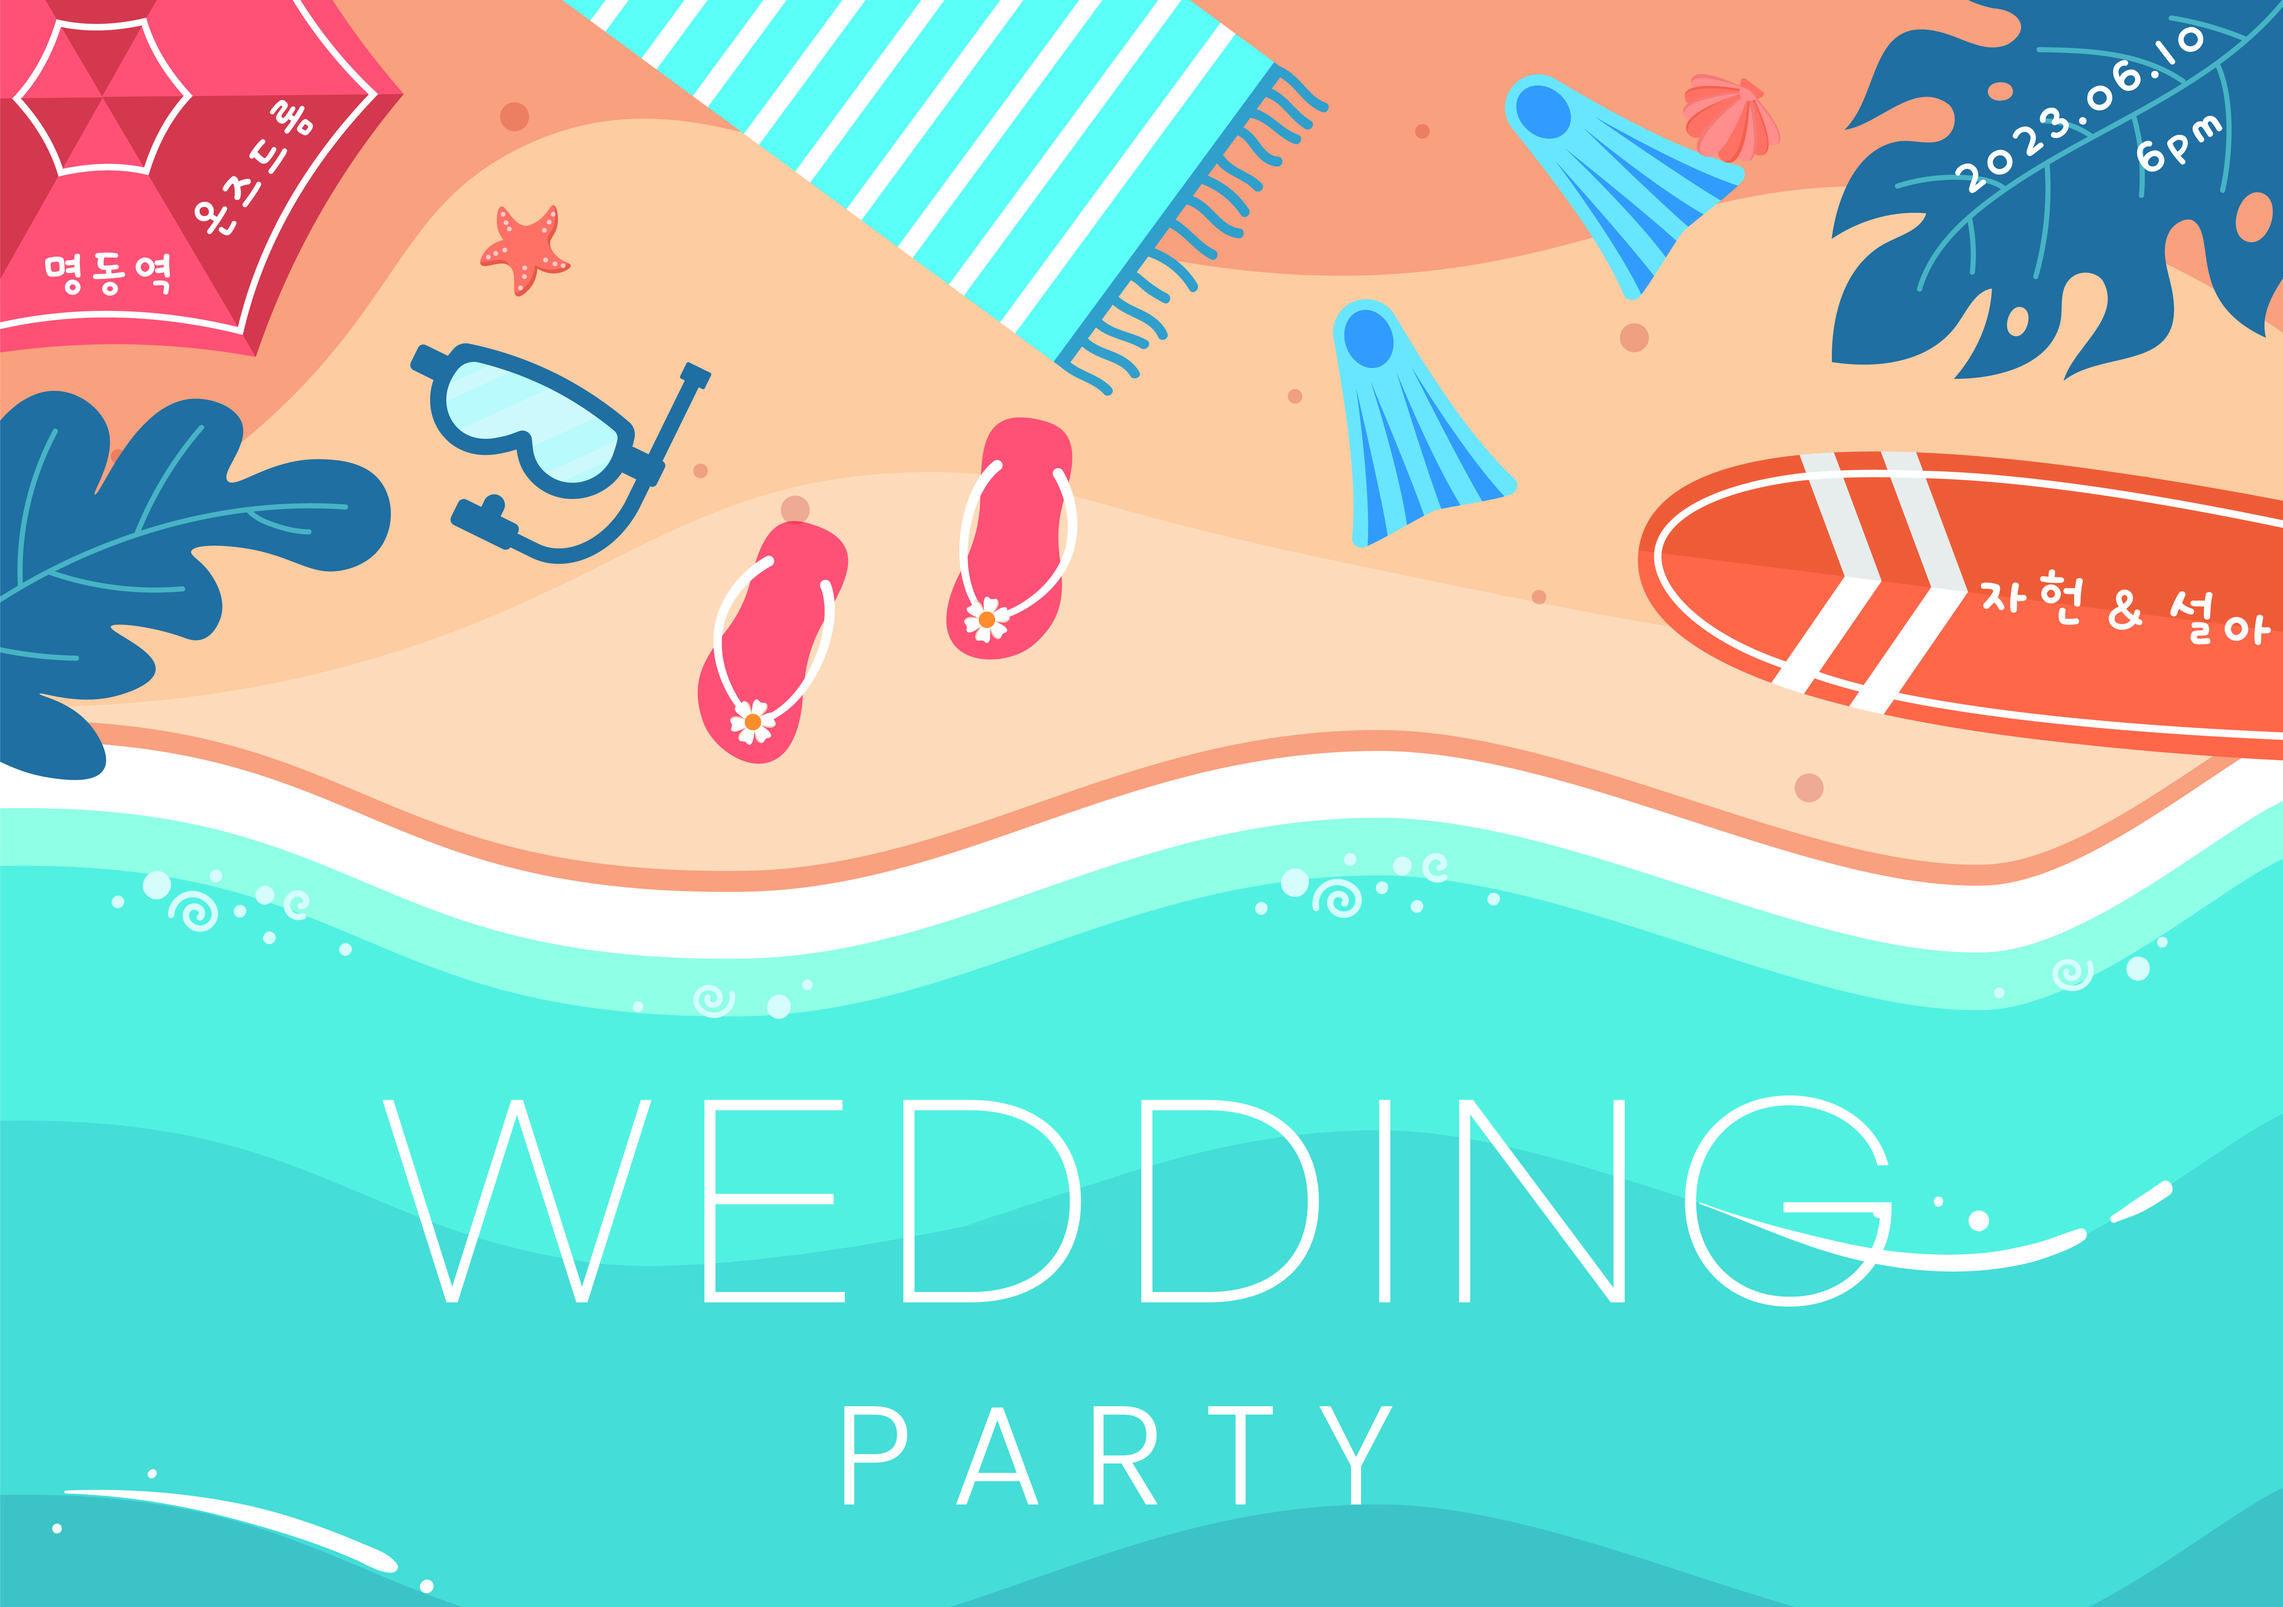
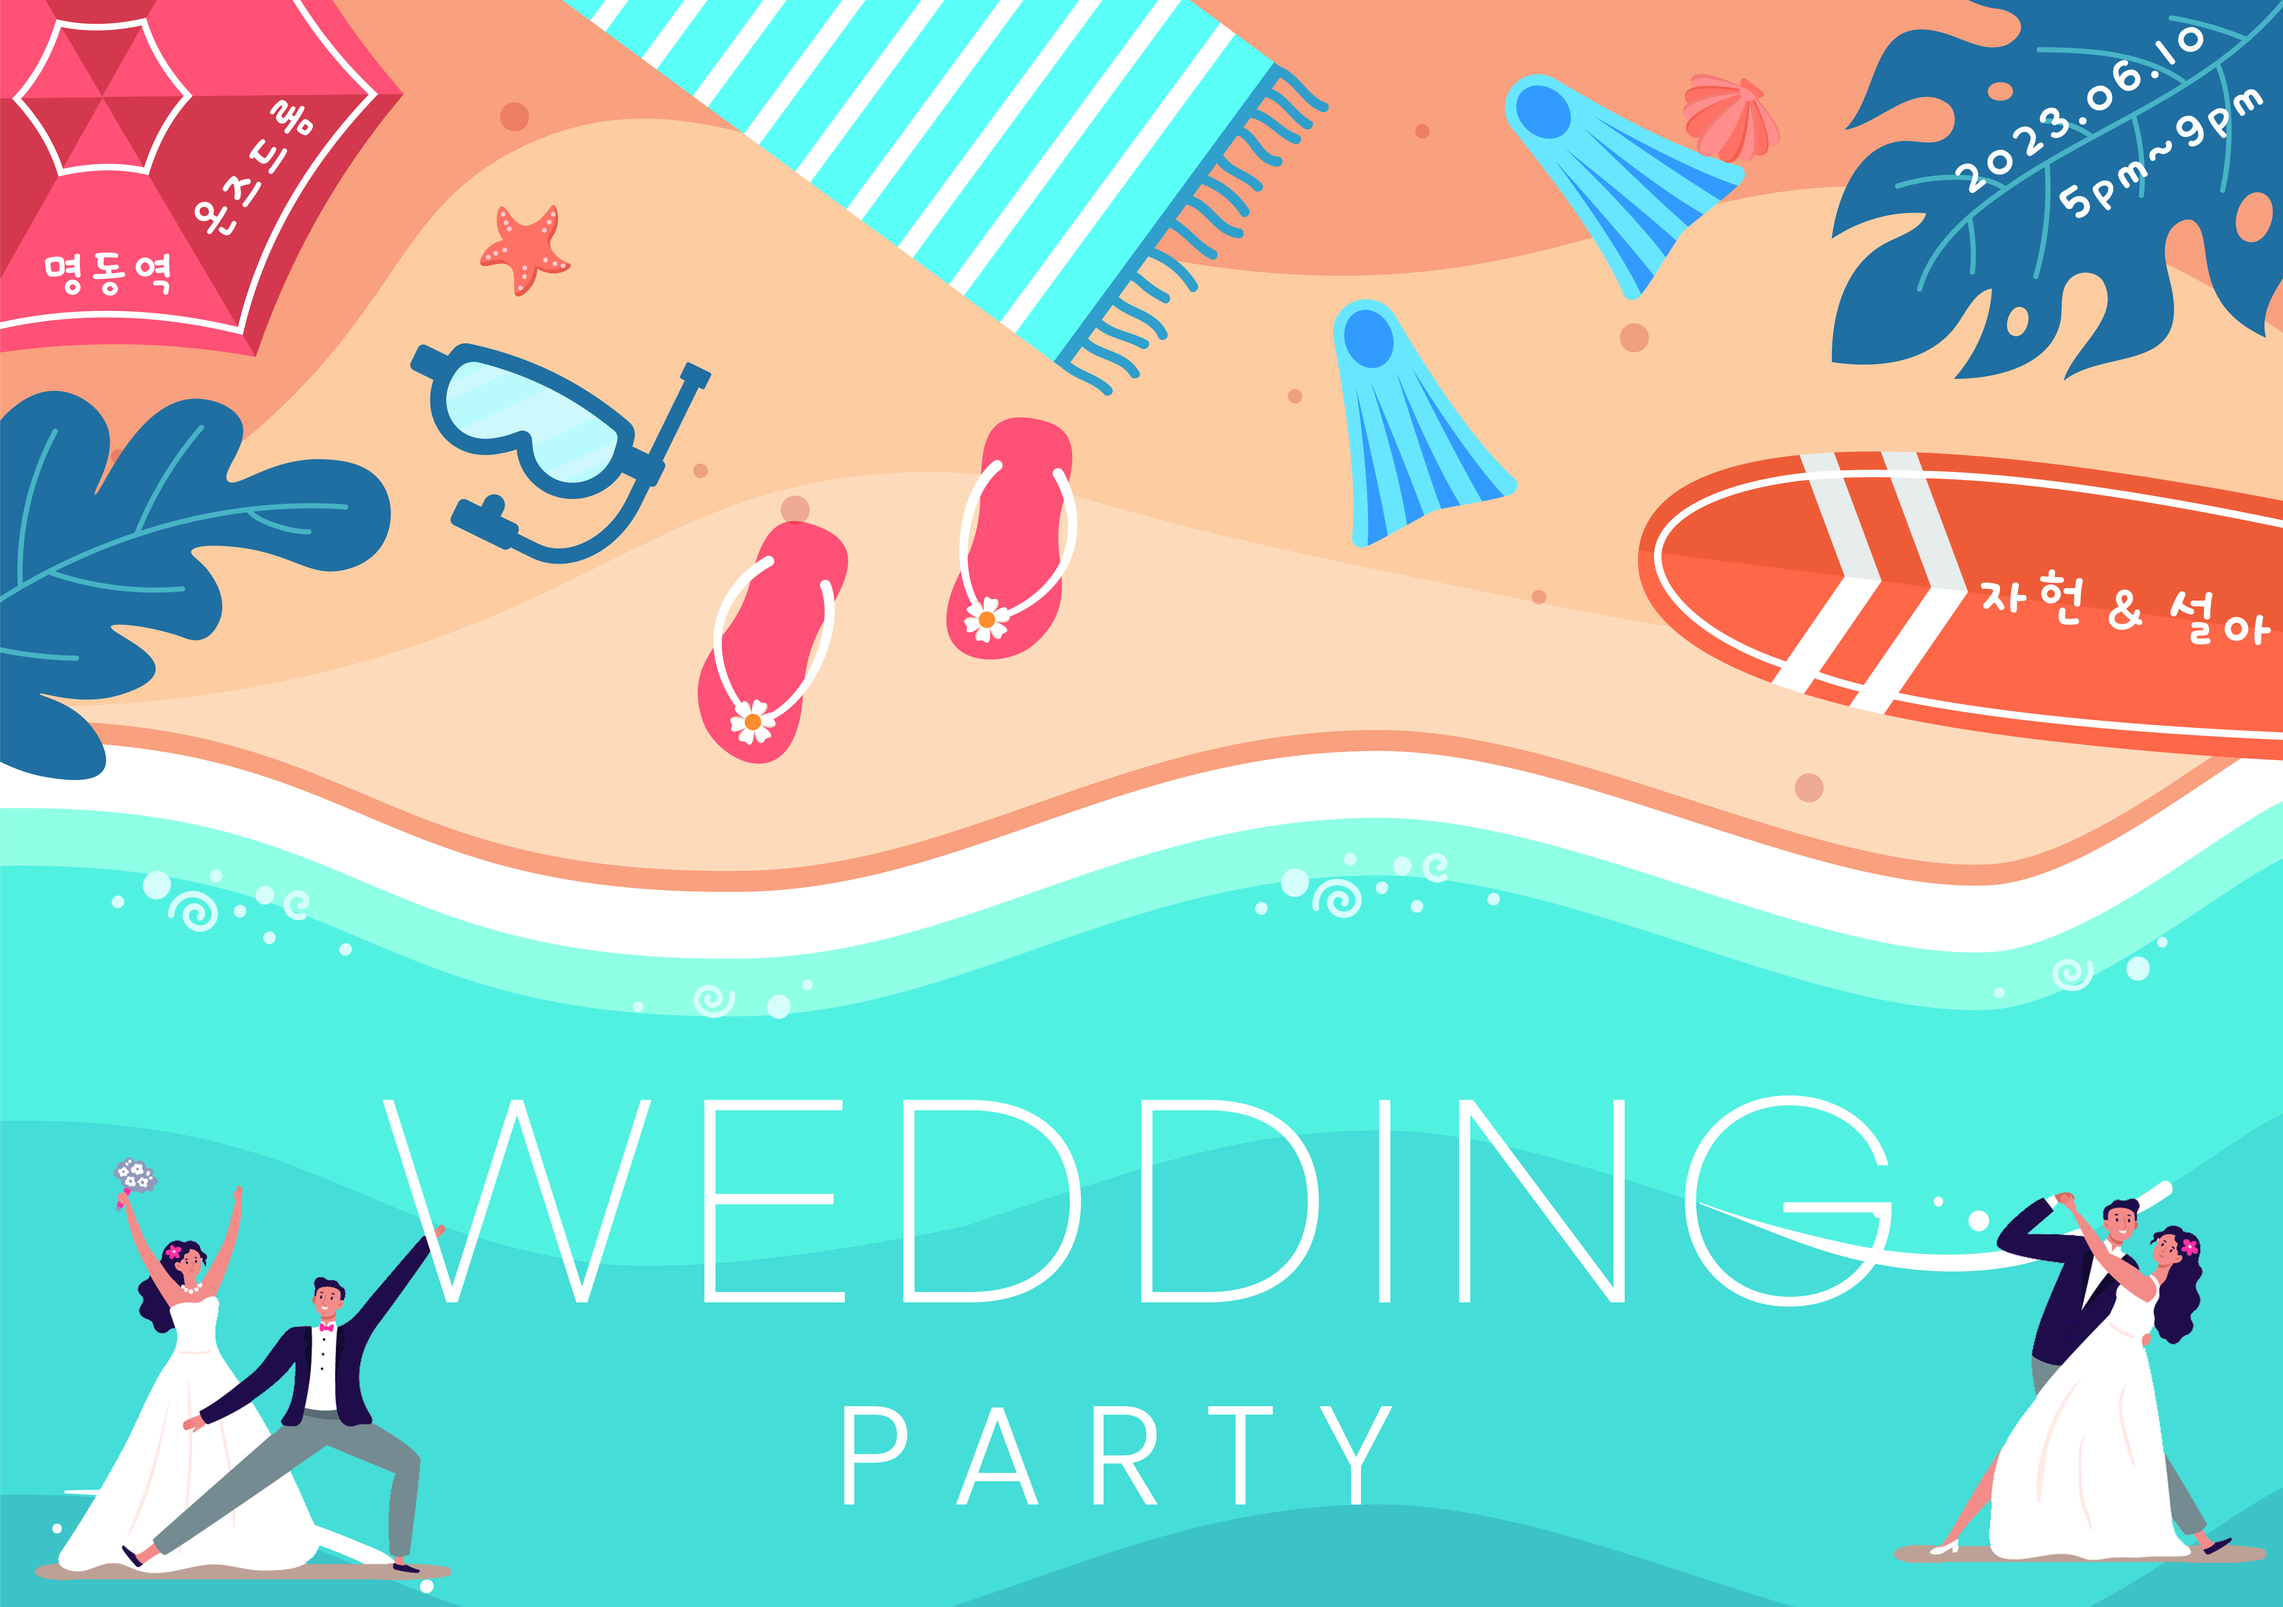
2

Changed region(s): [[0.0, 0.7188, 0.1869, 1.0], [0.8409, 0.75, 0.9967, 1.0], [0.9032, 0.0625, 0.9967, 0.125]]

diff --git a/css/header.css b/css/header.css
@@ -106,6 +106,11 @@
     margin-bottom: 10px;
   }
 
+  #maincontent #maincontentinfo span{
+    font-weight: 500;
+    font-size: 1.3rem;
+  }
+
   #dresscode{
     font-weight: 600;
     font-size: 1.3rem;
@@ -253,6 +258,12 @@
   #maincontent #maincontentinfo div{
     margin-bottom: 10px;
   }
+  
+  #maincontent #maincontentinfo span{
+    font-weight: 500;
+    font-size: 1.3rem;
+  }
+
   #maincontent3{
     margin-top: 150px;
   }
@@ -387,6 +398,11 @@
 
   #maincontent #maincontentinfo div{
     margin-bottom: 10px;
+  }
+
+  #maincontent #maincontentinfo span{
+    font-weight: 500;
+    font-size: 1.3rem;
   }
 
   #maincontent2 div{
@@ -525,6 +541,11 @@
 
   #maincontent #maincontentinfo div{
     margin-bottom: 10px;
+  }
+
+  #maincontent #maincontentinfo span{
+    font-weight: 500;
+    font-size: 2rem;
   }
 
   #maincontent2 div{

diff --git a/index.html b/index.html
@@ -31,8 +31,9 @@
             </div>
             <div id="maincontent">
                 <div id="maincontentinfo">
-                    <div>2023.06.10(토) 저녁 6시</div>
+                    <div>2023.06.10(토) 저녁 6시 <span>(5~9시)</span></div>
                     <div>온즈드롬(밀리오레호텔 19층 루프탑)</div>
+                
                 </div>
                 <div id="dresscode">
                         <img src="img/look-1.jpg" alt="옷">
